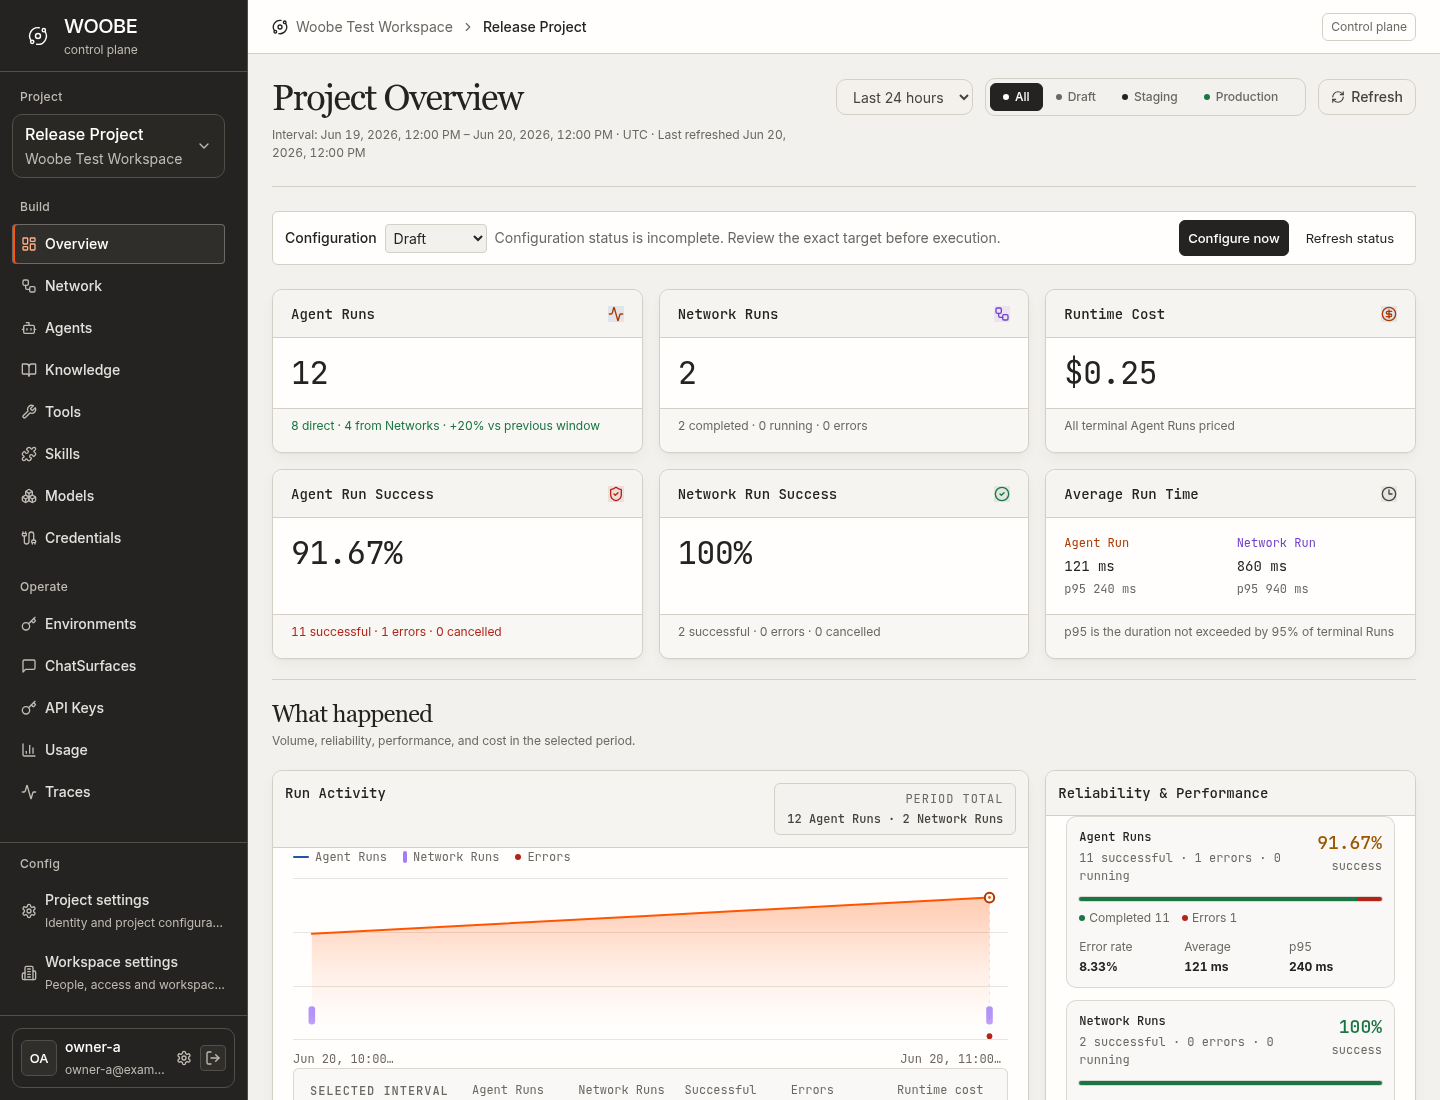
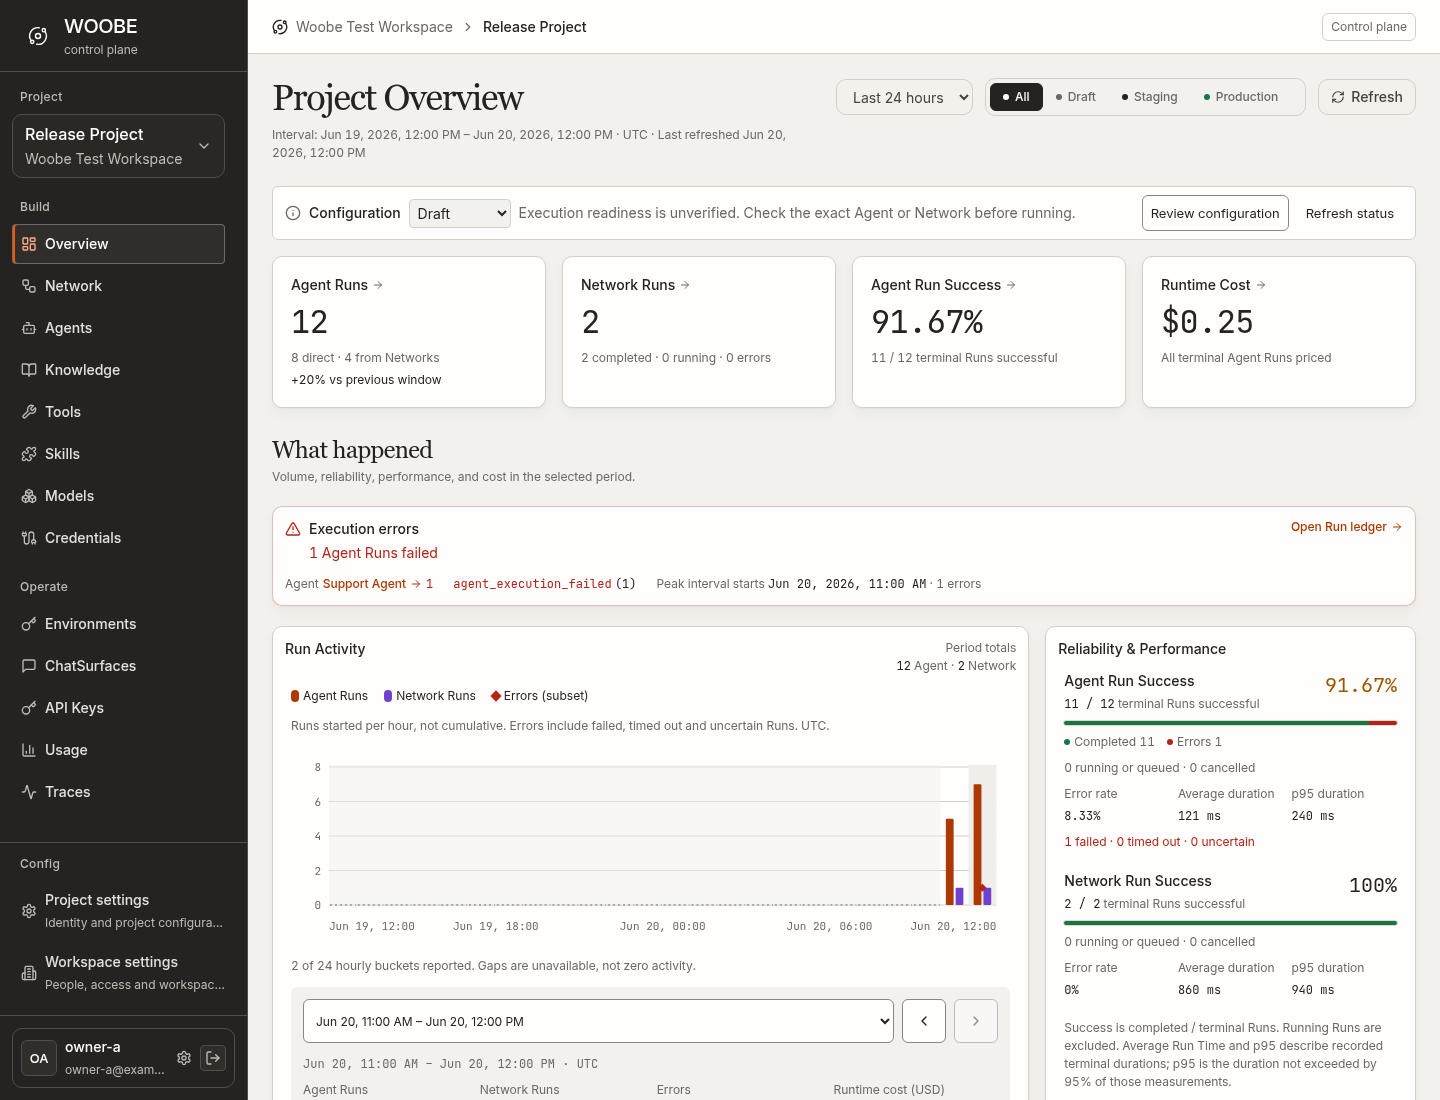
docs(frontend): refresh Overview screenshots and validation evidence

diff --git a/docs/design/REVIEW.md b/docs/design/REVIEW.md
@@ -1,16 +1,28 @@
-# Guild v2 interface, typography and contrast review
+# Guild v2 interface and operational Overview review
 
 Workspace selection and selected-project navigation now share the same charcoal surface on desktop and in the mobile drawer. Active navigation combines a bordered charcoal control, orange inset marker and light text. A peach keyboard outline remains visible on the dark rail, including account actions after a dialog closes. Dialogs opened from the rail retain their light surface through the existing portal. The operational reference is `05-mint-ui-overlap.png`, with `13-usage-cap-overlap-user.png` for panel bands and the owner's existing Projects rail for the dark navigation treatment.
 
-The main canvas is warmer and more distinct from white panels, separators are stronger, and shared panel headers and footers have a restrained cream band. These are application token mappings in `woobe-ui`; the supplied Guild skill files and short panel shadow are unchanged. The existing charcoal primary button is also used for a pending configuration action. Primary catalog selections and the Overview All filter use light labels/counts on charcoal; refresh and other secondary actions keep less visual weight. Warning descriptions retain full semantic ink opacity for readable contrast.
+The main canvas is warmer and more distinct from white panels, separators are stronger, and shared panel headers and footers have a restrained cream band. These are application token mappings in `woobe-ui`; the supplied Guild skill files and short panel shadow are unchanged. The existing charcoal primary button is used for a confirmed blocking configuration action; an unverified check keeps a secondary review action. Primary catalog selections and the Overview All filter use light labels/counts on charcoal; refresh and other secondary actions keep less visual weight. Warning descriptions retain full semantic ink opacity for readable contrast.
 
-The typography correction restores three distinct roles: Inter is the interface default, Georgia regular carries editorial page titles and Overview sections, and JetBrains Mono remains explicit on technical panel headers, numerical metrics, resource identifiers, code, schemas, versions, timestamps and execution evidence. The primary reference is the supplied `12-home-hero-user.png`, with the operational microinterface anatomy retained from Guild v2. The original skill files are unchanged.
+The typography correction restores three distinct roles: Inter is the interface default, Georgia regular carries editorial page titles and Overview sections, and JetBrains Mono remains explicit on technical panel headers outside the refined Overview, numerical metrics, resource identifiers, code, schemas, versions, timestamps and execution evidence. The primary reference is the supplied `12-home-hero-user.png`, with the operational microinterface anatomy retained from Guild v2. The original skill files are unchanged.
 
 The structural fix removes global monospace inheritance from the frontend body, resource-page compatibility CSS, shared resource shell, cards and dialog subtrees. Tailwind and CodeMirror consume the existing CSS family tokens instead of repeating stacks. Shared buttons, fields, selects, navigation, tabs, feedback and descriptions use Inter; technical variants and technical tables retain mono. Local overrides were reviewed across Agent/Network workspaces, contracts, Knowledge, Tools, Skills, runtime references, credentials, keys, settings, first-run setup, authentication and conversation. Markdown prose and generated headings use Inter while code and schema tables remain mono. MathSurface keeps its mathematical styling independent of editorial sizing.
 
 Georgia 2.05 was installed locally at the owner's request, with four original styles and verified Debian/MS Core Fonts checksums. It is a system font in this development environment, not a redistributed product font. Inter and JetBrains Mono remain the existing self-hosted variable WOFF2 resources. [FONTS.md](FONTS.md) records licensing, provenance and reproduction. Browser CDP confirms actual **Georgia** glyphs for editorial titles, custom **Inter** for navigation/controls/prose and custom **JetBrains Mono** for technical headers/values. The earlier Liberation Serif fallback is no longer the family used in these captures.
 
 Package ownership is preserved: `woobe-ui` owns shared tokens and presentation, `woobe-frontend` owns application composition, and `woobe-embed` remains independently built with configurable appearance. Runtime and backend contracts are unchanged.
+
+## Operational Overview refinement
+
+The latest owner brief refines Project Overview without redesigning the product. Four compact KPI cards replace six large cards, preserving Network success and duration in the reliability panel. Failures and affected resources now precede analytics, and Recent Runs follows the analysis before configuration/release history and current resource state. Overview panel labels use Inter; the major editorial headings retain Georgia. Spacing replaces internal card dividers.
+
+The previous graph stretched two sparse records across its entire width and joined them with a filled area. The replacement maps each actual UTC hour/day bucket into the full API interval, clips partial edge buckets and uses independent bars. Agent orange, Network purple and error red markers match their legends. Missing data is not filled as zero. The selected interval exposes counts, success counts, error breakdown, known/partial cost and average durations through pointer and keyboard controls. Period totals come from the summary rather than summing an incomplete series.
+
+Backend inspection confirmed completed / terminal success semantics, including cancellation in the denominator; running Runs remain excluded. Both groups show the numerator and denominator. Average duration and p95 remain separate measurements with units. Only volume has a historical comparison in the current contract; the UI makes no claims about success, latency or cost trends. Operational links use existing routes, with precise Run drill-down only when a matching recent Run is available.
+
+The configuration banner distinguishes actual blockers from unknown, partial, forbidden and failed checks. A response covering one page of selections cannot establish whole-project readiness, including the final page. Changing Overview filters now clears the previous filter's displayed data while the new query loads. A failed refresh of the same filter may retain its last successful data, with an explicit warning and original refresh timestamp.
+
+Implementation remains in `woobe-frontend`, consuming the existing `woobe-ui` primitives and tokens. There are no new dependencies or API changes. The principal files are `pages/DashboardPage.tsx`, `features/dashboard/components/RunActivityChart.tsx`, `features/dashboard/activity.ts`, the dashboard adapter/query hook, and the existing Project configuration notice/parser.
 
 ## Current screenshot scope
 
@@ -20,11 +32,13 @@ The source inventory still covers routes, shared components, overlay sources and
 
 ## Validation
 
-Exact commands, totals, implementation commit and capture metadata are recorded in [validation.json](validation.json). Current verification includes frontend unit tests; the rebuilt production frontend with API-fixture browser tests; shared-component and overlay browser tests at desktop/tablet/mobile widths; rendered-font probes; the screenshot inventory; and patch whitespace checks. The production suite also rebuilds and exercises the actual ChatSurface iframe. Independent embed unit/typecheck evidence from the preceding typography revision is recorded separately from checks rerun for contrast.
+Exact commands, totals, implementation commit and capture metadata are recorded in [validation.json](validation.json). Current verification includes the full frontend unit suite and a focused final recheck; the rebuilt production frontend with API-fixture browser tests; page-owned cost and installation overlays at desktop/tablet/mobile widths; rendered-font probes; the screenshot inventory; and patch whitespace checks. The production suite also rebuilds and exercises the actual ChatSurface iframe. The unchanged shared-component suite and independent embed unit/typecheck evidence are recorded separately as preceding validation.
 
-New navigation checks compare the rendered Workspace and Project rail backgrounds at desktop/mobile widths, verify active-text and keyboard-focus contrast, open the real Account settings portal, run selected axe rules, and verify Escape restores focus. An initial desktop audit found warning-description opacity reducing text contrast; removing that opacity fixed the issue, and both viewport checks passed on the final source.
+Retained navigation checks compare the rendered Workspace and Project rail backgrounds at desktop/mobile widths, verify active-text and keyboard-focus contrast, open the real Account settings portal, run selected axe rules, and verify Escape restores focus. An initial desktop audit found warning-description opacity reducing text contrast; removing that opacity fixed the issue, and both viewport checks passed on the final source.
 
-The font probes inspect declared family, weight and size alongside `CSS.getPlatformFontsForNode`, with actual glyph counts and custom/system origin. The production probes distinguish page/section headlines, navigation, breadcrumbs, filters, form controls, technical panels and numerical values. Shared-component probes include CodeMirror, technical tables and Portuguese text. The local strict run requires Georgia; CI may record its system-serif fallback while still requiring real Inter and JetBrains Mono webfonts.
+The font probes inspect declared family, weight and size alongside `CSS.getPlatformFontsForNode`, with actual glyph counts and custom/system origin. The production probes distinguish page/section headlines, navigation, breadcrumbs, filters, form controls, Inter Overview analysis headings and mono numerical values. Shared technical-panel probes retain their explicit mono role. Shared-component probes include CodeMirror, technical tables and Portuguese text. The local strict run requires Georgia; CI may record its system-serif fallback while still requiring real Inter and JetBrains Mono webfonts.
+
+New Overview checks exercise real time positions, missing versus zero buckets, partial cost, daily ranges, configuration blockers, keyboard interval selection, filter loading and same-filter refresh failure. They audit five widths from 320 to 1440px, including internal horizontal overflow and selected axe rules. An existing credential-dialog test now waits for initial focus before sending Escape, then asserts dismissal, removing a test synchronization race without changing credential behavior.
 
 Visual review compares the editorial-versus-technical hierarchy to the supplied Guild hero and microinterface references, then checks actual pages for wrapping, clipping, spacing and density. Browser tests cover forms, keyboard focus, nested confirmations, internal scrolling, responsive dialogs, unavailable states, regional canvas/table/code scrolling and the actual ChatSurface iframe. Text enlargement and 320px checks supplement the committed viewport matrix.
 
@@ -32,4 +46,4 @@ Visual review compares the editorial-versus-technical hierarchy to the supplied 
 
 The browser fixtures are synthetic. They qualify the real UI, routing and HTTP handling without establishing a running backend deployment or real model-provider authorization. Selected axe checks are not a complete accessibility certification. The system Chromium used locally can rasterize differently from CI's pinned Chromium. Georgia installed here does not install it on other clients; they follow the declared fallback stack. No numerical fidelity score is claimed.
 
-All work stays on `feature/frontend-enterprise-redesign` in [PR #217](https://github.com/A1b3rt0M3rcad0/woobe/pull/217), without merge. HTTPS Git pushes work. The current cloud HTTP policy blocks `api.github.com`; the committed review provides the current change summary while PR-body updates and remote CI inspection through `gh` remain unavailable. Reusable environment installation/start instructions, including Georgia, were saved as a configuration draft; applying/publishing that draft is a separate environment-settings action.
+All work stays on `feature/frontend-enterprise-redesign` in [PR #217](https://github.com/A1b3rt0M3rcad0/woobe/pull/217), without merge. The first Overview implementation commit (`d2cee758`) was pushed successfully. GitHub subsequently returned HTTP 401 for Git reads and pushes; final refinements and screenshots are committed locally pending restored environment authentication. The current cloud HTTP policy blocks `api.github.com`; the committed review provides the current change summary while PR-body updates and remote CI inspection through `gh` remain unavailable. Reusable environment installation/start instructions, including Georgia, were saved as a configuration draft; applying/publishing that draft is a separate environment-settings action.

diff --git a/docs/design/README.md b/docs/design/README.md
@@ -16,11 +16,21 @@ The Control Plane, setup, configuration, authentication forms and ChatSurface co
 | Editorial page titles, overview sections and sign-in narrative | `12-home-hero-user.png` | Editorial typography: regular Georgia heading, Inter explanation; usable form remains operational |
 | Network graph and traces | `05-mint-ui-overlap.png` | Technical configuration and inspectable result in normal flow; Inter actions and explanations, mono execution data |
 
+## Project Overview refinement
+
+The Overview keeps the existing operational identity and package boundaries. Four compact primary metrics appear in order: Agent Runs, Network Runs, Agent Run Success, Runtime Cost. Network success and both average/p95 durations remain in Reliability & Performance. Inter carries Overview panel headings, labels, explanations and actions; Georgia carries editorial headings; JetBrains Mono carries numerical and technical evidence. This scoped refinement follows the owner's latest typography instruction.
+
+Execution failures precede analytics and link to existing resources, recent error Runs when available, and the Run ledger. The ledger link is deliberately labelled as navigation to the ledger: that page does not currently accept URL filters. Only the API's existing Agent Run volume comparison is shown; success, duration and cost trends are not inferred.
+
+Run Activity uses grouped bars at actual UTC bucket positions in the API's full half-open interval. Partial edge buckets are clipped to that interval. Missing buckets remain unavailable; explicit zeros remain zero. Agent, Network and error marks share their legend colors, and errors are labelled as a subset. A keyboard-accessible interval selector exposes the same evidence as pointer inspection. Summary totals retain their backend scope even when the time series is incomplete. No interpolation, cumulative area or synthetic data completion is used.
+
+Success percentages retain the API's completed / terminal criterion, including cancelled Runs in the denominator and excluding running Runs. Absolute counts remain beside the percentages to contextualize small samples. Average and p95 use recorded terminal durations. Unpriced Run counts accompany partial cost subtotals. Configuration readiness distinguishes confirmed blockers, incomplete/unknown checks, paginated checks, permission failures and fetch failures; page-level completeness never becomes project readiness.
+
 ## Geometry and tokens
 
 Canvas `#f3f1ed`; panel `#fffefd`; panel header/footer band `#f6f4f0`; ink `#242321`; muted `#6b6863`; separator `#d4d0c8`; control boundary `#8c867d`; graphic accent `#ff5500`; small accent text `#ad3900`. These application mappings incorporate the owner's requested stronger surface contrast; the original Guild skill tokens remain unchanged. Semantic success `#197542`, warning `#9b5700`, failure `#b42318`. Avatars 28–32px, radius 4–6px; badges 4px; controls 6px; panels 10px. Panel inset 18px, header 48px, row at least 40–48px, footer around 40px. Content drives height. Canonical short panel shadow follows `assets/tokens.css`.
 
-Workspace selection and project navigation share a scoped charcoal rail (`#242321`) on desktop and in the mobile drawer. Current items combine a visible border, raised charcoal surface and orange inset marker; keyboard focus uses a contrasting peach outline. Portal dialogs retain their light product surface. Primary creation, save and execution actions use the existing charcoal button. The pending-configuration link now shares that presentation, while secondary refresh actions remain quiet. Primary catalog filters and the selected Overview All filter use charcoal with light labels and counts. Technical microinterface segments keep their subtler treatment.
+Workspace selection and project navigation share a scoped charcoal rail (`#242321`) on desktop and in the mobile drawer. Current items combine a visible border, raised charcoal surface and orange inset marker; keyboard focus uses a contrasting peach outline. Portal dialogs retain their light product surface. Primary creation, save and execution actions use the existing charcoal button. A confirmed configuration blocker uses that primary presentation; unverified checks use a secondary review action, while refresh remains quiet. Primary catalog filters and the selected Overview All filter use charcoal with light labels and counts. Technical microinterface segments keep their subtler treatment.
 
 Reference figure dimensions (224px AgentMini or 270px UsageCap) describe **illustrations**. Operational controls use the specification's comfortable sizes; the application does not gain decorative marketing stages, fictitious budget enforcement, or additional KPIs. Main workspace, graph and inspector widths retain their information requirements. On narrow viewports, layouts wrap or stack; bidimensional code/tables scroll regionally. No hidden document overflow is accepted as proof of reflow.
 

diff --git a/README.md b/README.md
@@ -1,6 +1,6 @@
 # Woobe — Control Plane for Production AI Agents
 
-![Woobe Control Plane — Project Overview](docs/screenshots/project-overview.png?v=f9df8c35bd14)
+![Woobe Control Plane — Project Overview](docs/screenshots/project-overview.png?v=106705806230)
 
 **Define, version, test, deploy and operate AI agents like production software.**
 
